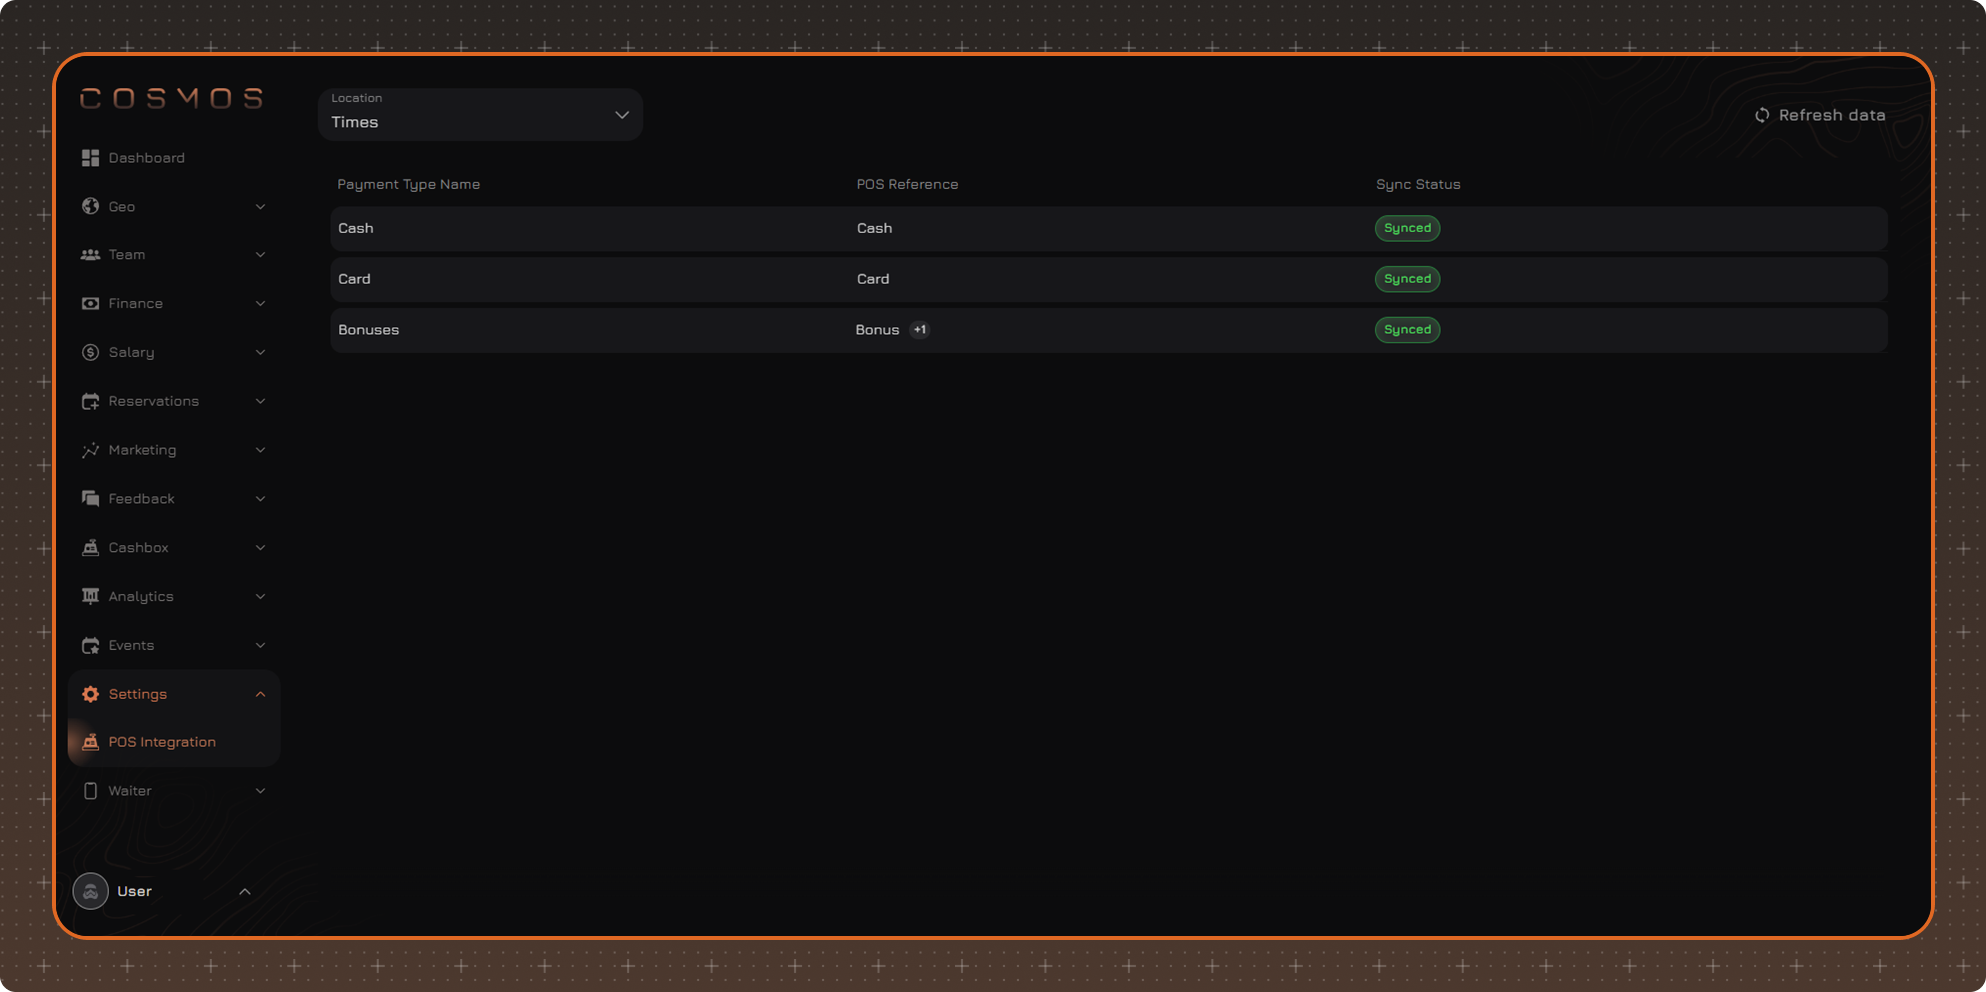
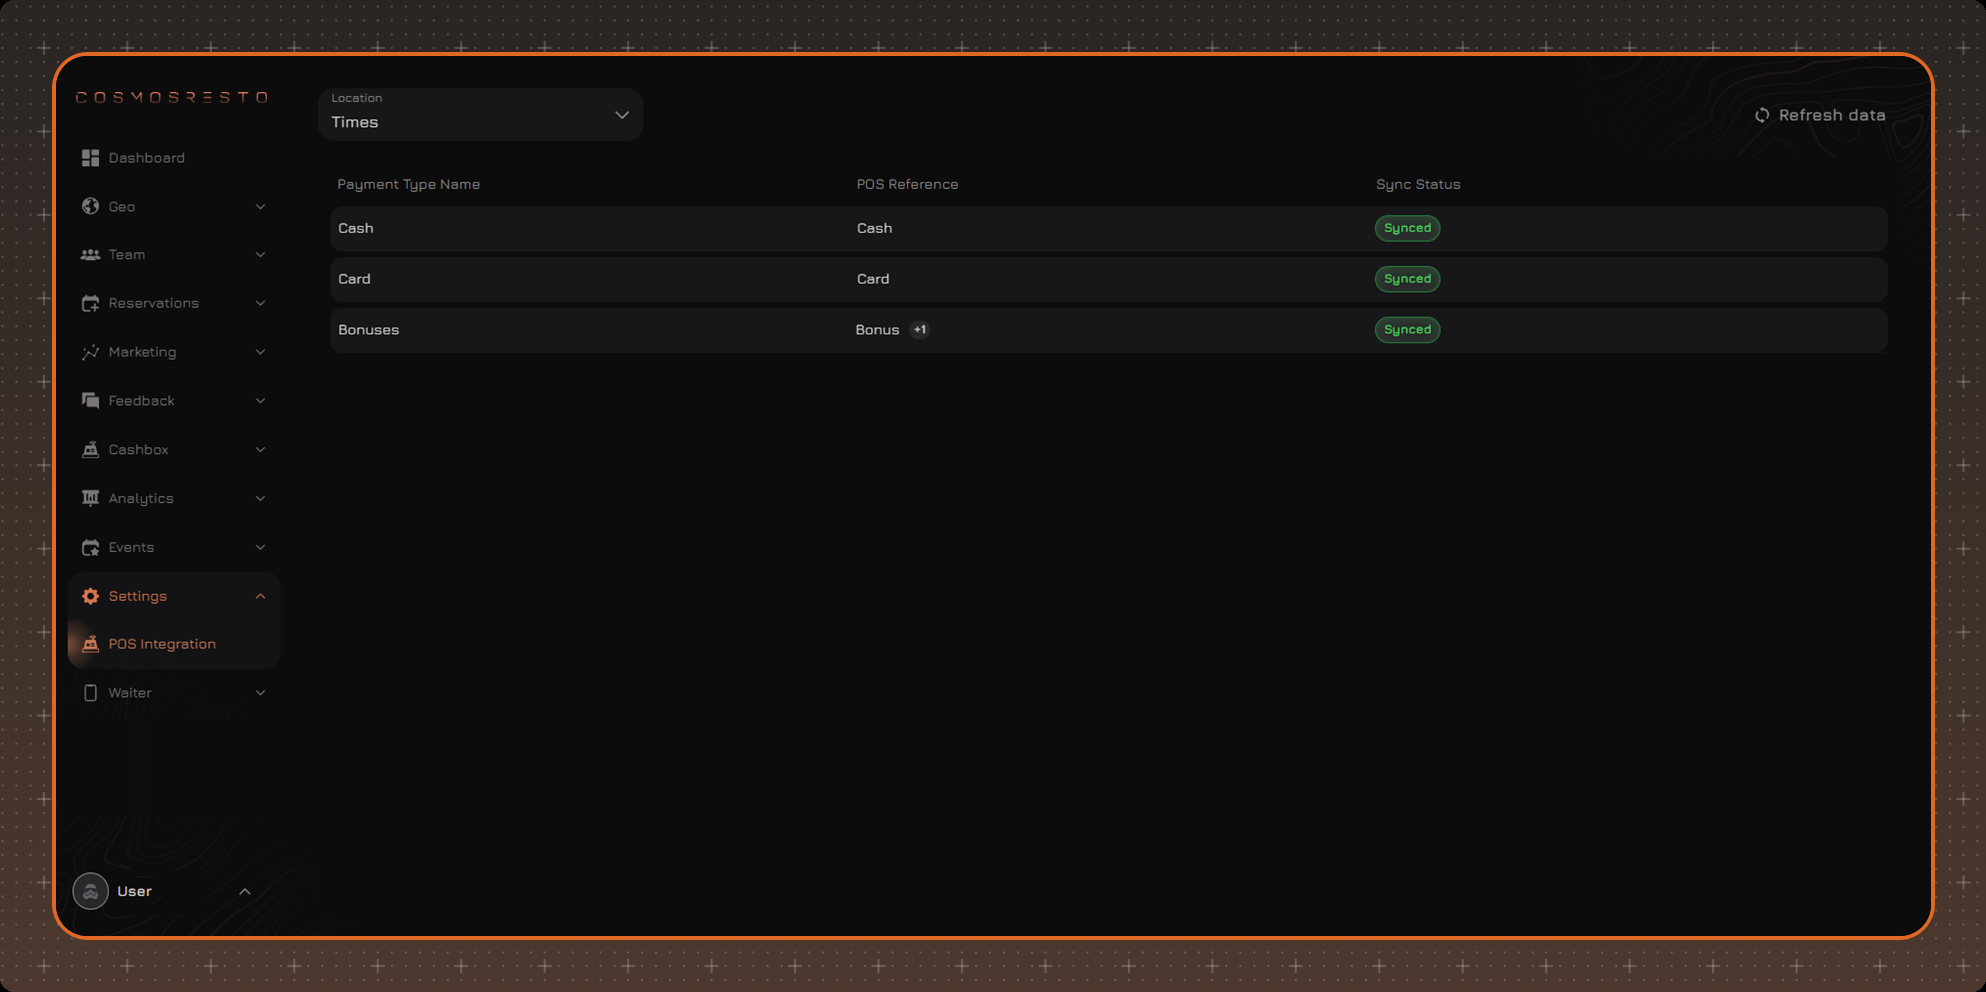
Ребрендинг: CosmosResto в «Интеграции с кассой», «Создании пользователя» и архиве, логотип и меню без «Финансов» и «Зарплат» на скринах интеграции (#134)

diff --git a/content/ru/settings/pos-integration.md b/content/ru/settings/pos-integration.md
@@ -1,13 +1,13 @@
 ---
 title: Интеграция с POS
-summary: "Сопоставление типов оплат Cosmos с типами оплат iiko"
-description: "В этом разделе вы узнаете, как сопоставить типы оплат Cosmos с типами оплат кассовой системы iiko и как обновить данные из кассы."
+summary: "Сопоставление типов оплат CosmosResto с типами оплат iiko"
+description: "В этом разделе вы узнаете, как сопоставить типы оплат CosmosResto с типами оплат кассовой системы iiko и как обновить данные из кассы."
 order: 1
 ---
 
-Раздел **Настройки → Интеграция с POS** связывает типы оплат Cosmos с типами оплат кассовой системы (iiko). Сопоставление нужно, чтобы оплаты заказов из кассы корректно учитывались в Cosmos.
+Раздел **Настройки → Интеграция с POS** связывает типы оплат CosmosResto с типами оплат кассовой системы (iiko). Сопоставление нужно, чтобы оплаты заказов из кассы корректно учитывались в CosmosResto.
 
-В Cosmos три типа оплат: **Наличные**, **Карта** и **Бонусы**. В iiko типов оплат обычно больше, поэтому одному типу Cosmos можно сопоставить несколько типов оплат iiko.
+В CosmosResto три типа оплат: **Наличные**, **Карта** и **Бонусы**. В iiko типов оплат обычно больше, поэтому одному типу CosmosResto можно сопоставить несколько типов оплат iiko.
 
 ## Таблица типов оплат
 
@@ -18,13 +18,13 @@ order: 1
 [[delimiter rows=1]]
 
 В таблице отображаются следующие колонки:
-1. **Название типа оплат** - тип оплаты Cosmos. Список фиксированный, добавить или удалить тип оплаты невозможно.
-2. **Название в POS** - типы оплат iiko, сопоставленные с типом Cosmos. Если сопоставлено несколько типов, отображается первый и счетчик остальных (например, **+1**). Если сопоставления нет, отображается прочерк.
+1. **Название типа оплат** - тип оплаты CosmosResto. Список фиксированный, добавить или удалить тип оплаты невозможно.
+2. **Название в POS** - типы оплат iiko, сопоставленные с типом CosmosResto. Если сопоставлено несколько типов, отображается первый и счетчик остальных (например, **+1**). Если сопоставления нет, отображается прочерк.
 3. **Статус синхронизации** - состояние сопоставления: **Синхронизировано** - тип оплаты сопоставлен с iiko, **Не синхронизировано** - тип оплаты еще не сопоставлен.
 
 ## Сопоставление типа оплат
 
-Сопоставление задается в окне **Редактировать пару**, которое открывается по нажатию на строку таблицы. В окне указаны тип оплаты Cosmos и локация, для которой настраивается пара.
+Сопоставление задается в окне **Редактировать пару**, которое открывается по нажатию на строку таблицы. В окне указаны тип оплаты CosmosResto и локация, для которой настраивается пара.
 
 В поле **Названия в POS** выберите один или несколько типов оплат iiko. В списке доступны **Поиск** и **Выбрать все**. Выбор подтверждается кнопкой **Применить**, сопоставление сохраняется кнопкой **Сохранить**. Выбранные типы отображаются в поле, лишний можно убрать крестиком.
 
@@ -32,10 +32,10 @@ order: 1
 
 [[delimiter rows=1]]
 
-Один тип оплаты iiko может быть сопоставлен только с одним типом оплаты Cosmos.
+Один тип оплаты iiko может быть сопоставлен только с одним типом оплаты CosmosResto.
 
 [[info type=custom color=#E06823]]
-Изменение сопоставления может существенно повлиять на работу POS-системы. Перед сохранением проверьте, что выбранные типы оплат iiko относятся к нужному типу Cosmos.
+Изменение сопоставления может существенно повлиять на работу POS-системы. Перед сохранением проверьте, что выбранные типы оплат iiko относятся к нужному типу CosmosResto.
 [[/info]]
 
 ## Обновление данных

diff --git a/content/en/settings/pos-integration.md b/content/en/settings/pos-integration.md
@@ -1,13 +1,13 @@
 ---
 title: POS Integration
-summary: "Mapping Cosmos payment types to iiko payment types"
-description: "In this section, you will learn how to map Cosmos payment types to the payment types of the iiko POS system and how to refresh data from the POS."
+summary: "Mapping CosmosResto payment types to iiko payment types"
+description: "In this section, you will learn how to map CosmosResto payment types to the payment types of the iiko POS system and how to refresh data from the POS."
 order: 1
 ---
 
-The **Settings → POS Integration** section links Cosmos payment types to the payment types of the POS system (iiko). Mapping is required so that payments for orders from the POS are correctly recorded in Cosmos.
+The **Settings → POS Integration** section links CosmosResto payment types to the payment types of the POS system (iiko). Mapping is required so that payments for orders from the POS are correctly recorded in CosmosResto.
 
-Cosmos has three payment types: **Cash**, **Card** and **Bonuses**. iiko usually has more payment types, so several iiko payment types can be mapped to one Cosmos payment type.
+CosmosResto has three payment types: **Cash**, **Card** and **Bonuses**. iiko usually has more payment types, so several iiko payment types can be mapped to one CosmosResto payment type.
 
 ## Payment Types Table
 
@@ -18,13 +18,13 @@ Mapping is set up separately for each location. The location is selected in the 
 [[delimiter rows=1]]
 
 The table contains the following columns:
-1. **Payment Type Name** - the Cosmos payment type. The list is fixed: payment types cannot be added or removed.
-2. **POS Reference** - the iiko payment types mapped to the Cosmos payment type. If several types are mapped, the first one is shown with a counter of the rest (for example, **+1**). If there is no mapping, a dash is shown.
+1. **Payment Type Name** - the CosmosResto payment type. The list is fixed: payment types cannot be added or removed.
+2. **POS Reference** - the iiko payment types mapped to the CosmosResto payment type. If several types are mapped, the first one is shown with a counter of the rest (for example, **+1**). If there is no mapping, a dash is shown.
 3. **Sync Status** - the mapping state: **Synced** - the payment type is mapped to iiko, **Not Synced** - the payment type has not been mapped yet.
 
 ## Payment Type Mapping
 
-Mapping is set up in the **Edit Mapping** window, which opens when you click a table row. The window shows the Cosmos payment type and the location for which the mapping is being set up.
+Mapping is set up in the **Edit Mapping** window, which opens when you click a table row. The window shows the CosmosResto payment type and the location for which the mapping is being set up.
 
 In the **POS References** field, select one or more iiko payment types. The list offers **Search** and **Select All**. Confirm the selection with **Apply** and save the mapping with **Save**. Selected types are shown in the field, and an unneeded one can be removed with the cross.
 
@@ -35,17 +35,17 @@ In the **POS References** field, select one or more iiko payment types. The list
 
 [[delimiter rows=1]]
 
-One iiko payment type can be mapped to only one Cosmos payment type.
+One iiko payment type can be mapped to only one CosmosResto payment type.
 
 [[info type=custom color=#E06823]]
-Changing the mapping may significantly affect how the POS system works. Before saving, make sure the selected iiko payment types belong to the correct Cosmos payment type.
+Changing the mapping may significantly affect how the POS system works. Before saving, make sure the selected iiko payment types belong to the correct CosmosResto payment type.
 [[/info]]
 
 ## Refreshing Data
 
 The list of payment types is loaded from iiko. The **Refresh Data** button in the upper right corner of the page starts synchronization with the POS: it loads new payment types and updates existing ones. Use it after a payment type has been added or renamed in iiko.
 
-If the **POS References** field shows **Nothing here yet**, the data from iiko has not been loaded yet. Click **Refresh Data**. If the list is still empty, check the iiko connection or contact Cosmos support.
+If the **POS References** field shows **Nothing here yet**, the data from iiko has not been loaded yet. Click **Refresh Data**. If the list is still empty, check the iiko connection or contact CosmosResto support.
 
 [[delimiter rows=3]]
 

diff --git a/content/ru/team/users/user-creation.md b/content/ru/team/users/user-creation.md
@@ -1,12 +1,12 @@
 ---
 title: Создание пользователей
-description: Инструкция по созданению пользователей и предоставлению доступа к системе Cosmos.
+description: Инструкция по созданению пользователей и предоставлению доступа к системе CosmosResto.
 summary: "Создание пользователя, назначение ролей и доступов"
 order: 1
 updatedAt: 2026-06-09
 ---
 
-После настройки ролей необходимо создать пользователей, которые будут работать в системе Cosmos.
+После настройки ролей необходимо создать пользователей, которые будут работать в системе CosmosResto.
 
 **Для создания пользователя потребуются следующие обязательные данные:**
 - Имя
@@ -31,7 +31,7 @@ updatedAt: 2026-06-09
 
 - **Фамилия**
 
-- **Электронная почта** - на неё придет письмо с доступом в Cosmos
+- **Электронная почта** - на неё придет письмо с доступом в CosmosResto
 
 - **Пол**
 

diff --git a/content/ru/archive/finance/transactions/receipt-parser.md b/content/ru/archive/finance/transactions/receipt-parser.md
@@ -49,7 +49,7 @@ updatedAt: 2026-05-15
 
 Вы можете дополнительно загрузить CSV-файл с категориями.
 
-Файл категорий можно скачать в разделе: `COSMOS → Финансы → Категории → Экспорт таблицы`
+Файл категорий можно скачать в разделе: `CosmosResto → Финансы → Категории → Экспорт таблицы`
 
 ![receipt_parser-2](/ru/images/transactions/receipt_parser/receipt_parser-2.jpg)
 
